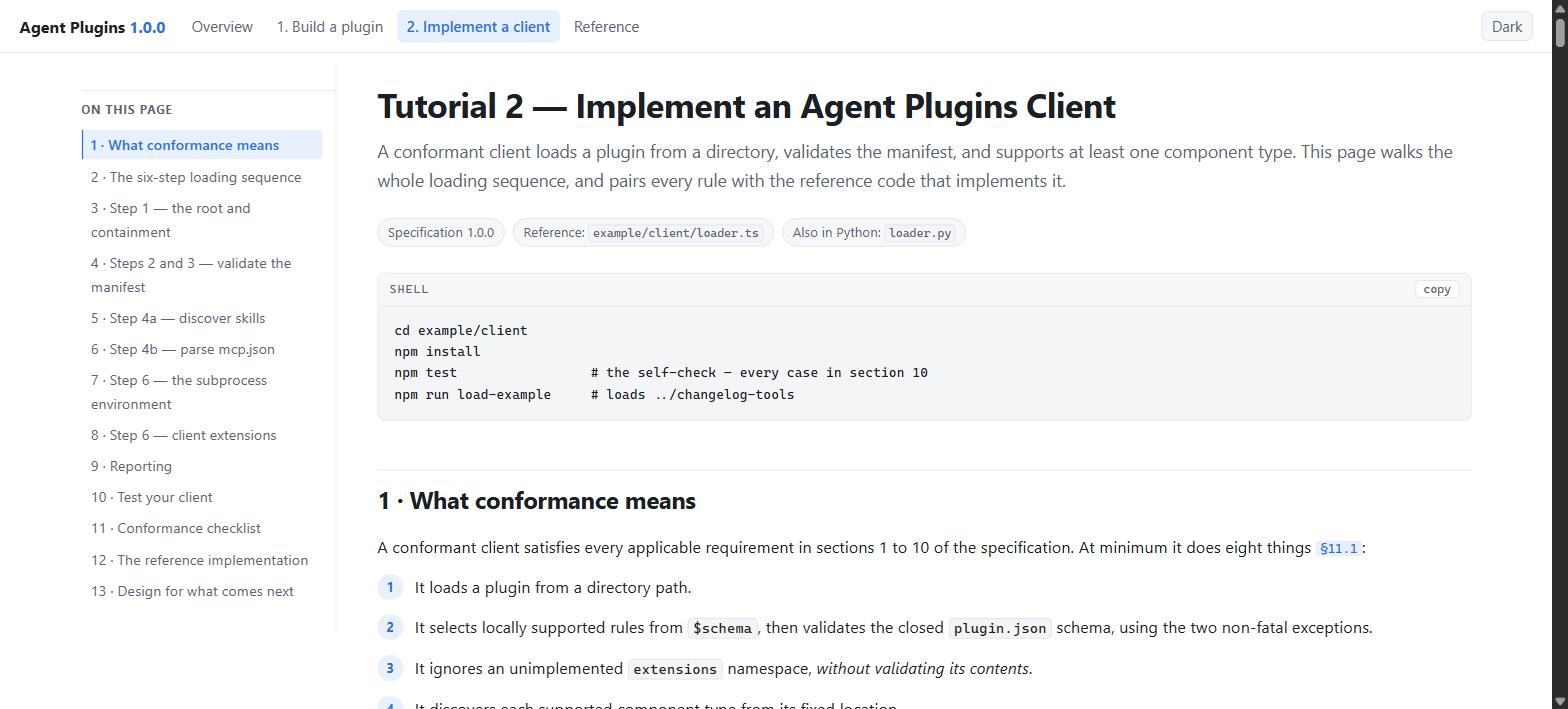
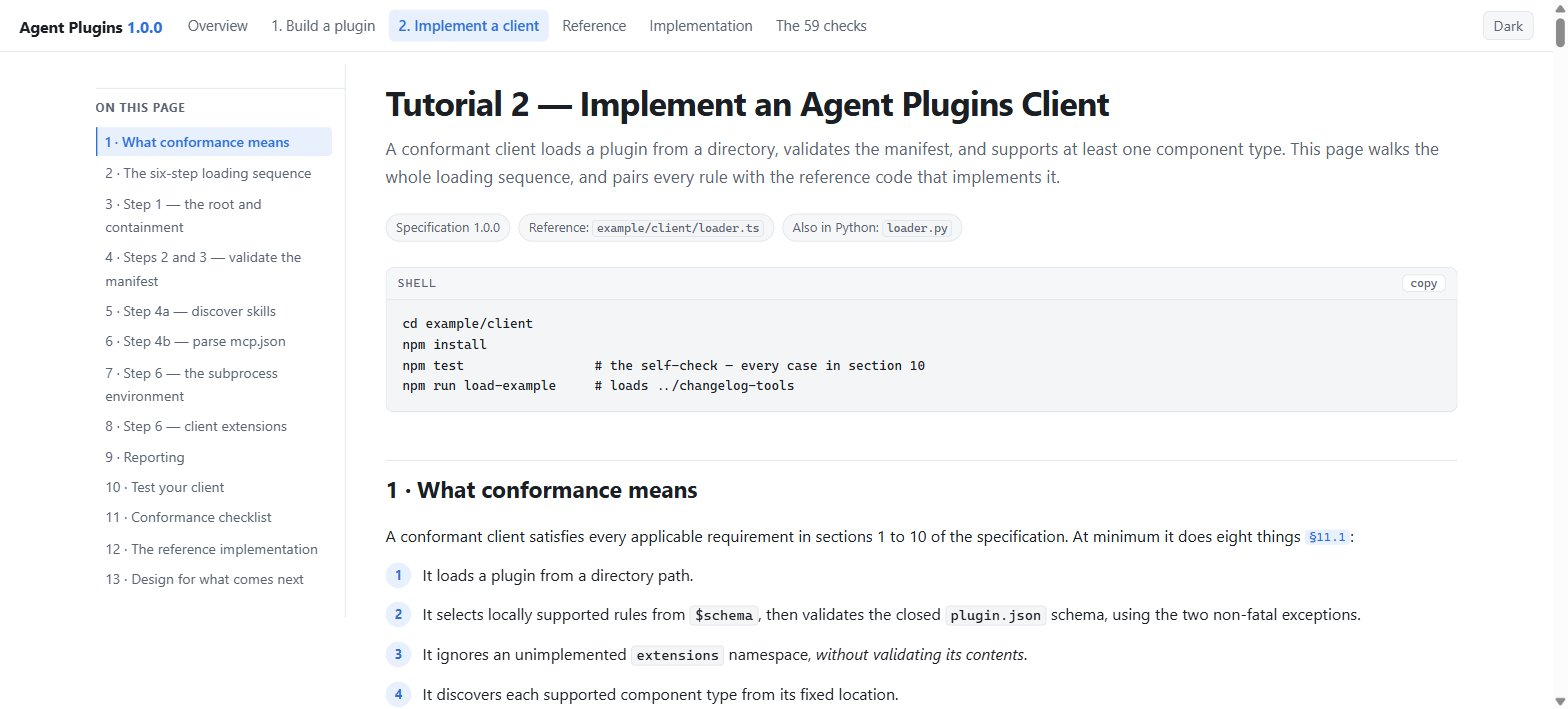
Show all 6 pages as live clickable screenshots in the README
The README linked implementation.html and e2e-tests.html as relative paths,
which open the raw HTML source on github.com instead of the rendered page.
Both now point at the live GitHub Pages URLs, and both appear in the
screenshot grid, which grows from 2x2 to 3x2.

Re-shoot all 6 screenshots. The original 4 showed a 4-item nav and went
stale when 87d36f2 added 2 pages to every nav.

Document the plugin, both reference clients, and their tests: a component
table, a client table, the 7-server outcome table the self-checks assert,
and the 59-check split.

Claude-Session: https://claude.ai/code/session_01WjJBM6mLEygkr3QV7NpvkF

diff --git a/README.md b/README.md
@@ -28,6 +28,11 @@ Click any screenshot to open that page.
 | **[Overview](https://az9713.github.io/agent-plugins-spec-tutorial/)** — what the standard is, the smallest valid plugin, how to run the examples. | **[1 · Build a plugin](https://az9713.github.io/agent-plugins-spec-tutorial/plugin-authors.html)** — every `plugin.json` and `mcp.json` key, inside commented JSON. Ten mistakes that break a plugin. |
 | [![Implement a client](assets/screenshots/client-implementers.jpg)](https://az9713.github.io/agent-plugins-spec-tutorial/client-implementers.html) | [![Reference](assets/screenshots/reference.jpg)](https://az9713.github.io/agent-plugins-spec-tutorial/reference.html) |
 | **[2 · Implement a client](https://az9713.github.io/agent-plugins-spec-tutorial/client-implementers.html)** — the six-step loading sequence, the failure-boundary ladder, the expansion algorithm, the conformance checklist. | **[Reference](https://az9713.github.io/agent-plugins-spec-tutorial/reference.html)** — field tables, the complete failure matrix, both schemas, the glossary. |
+| [![The implementations](assets/screenshots/implementation.jpg)](https://az9713.github.io/agent-plugins-spec-tutorial/implementation.html) | [![The 59 checks](assets/screenshots/e2e-tests.jpg)](https://az9713.github.io/agent-plugins-spec-tutorial/e2e-tests.html) |
+| **[The implementations](https://az9713.github.io/agent-plugins-spec-tutorial/implementation.html)** — what the example plugin and both reference clients actually contain, and a measured verdict on how faithful the tutorial code is to the shipping files. | **[The 59 checks](https://az9713.github.io/agent-plugins-spec-tutorial/e2e-tests.html)** — every check in `example/e2e.py` explained, what is deliberately untested, and what 59 passes do and do not prove. |
+
+The first four pages teach the specification. The last two document this repository's own code and
+its tests, so the tutorial can be checked rather than trusted.
 
 The pages are self-contained: no CDN, no external font, no network request. They follow the
 reader's light or dark theme, and carry a manual toggle. The screenshots show the light theme.
@@ -48,12 +53,33 @@ changelog-tools/
 └── com.example.client/hooks/         # a client extension directory   (§8.2)
 ```
 
+Nothing here is a stub. Every file runs:
+
+| File | Lines | What it is |
+| --- | --- | --- |
+| `plugin.json` | 20 | All 10 manifest keys and nothing else: `$schema`, `name`, `version`, `description`, `author`, `homepage`, `repository`, `license`, `keywords`, `extensions` (§5). |
+| `mcp.json` | 26 | Three servers, one per transport: `notes` on `stdio`, `release-api` on `streamable-http`, `legacy-feed` on the deprecated `sse` (§7.2). |
+| `bin/notes_server.py` | 106 | A real MCP stdio server. Speaks `initialize`, `tools/list`, `tools/call`. |
+| `skills/changelog-entry/SKILL.md` | 22 | The skill: frontmatter plus a procedure (§7.1). |
+| `skills/.../references/format.md` | 12 | Support material the skill tells the agent to read. |
+| `skills/.../scripts/check_entry.py` | 40 | Validates a changelog entry: exit 0 when the version heading and the section order are right, exit 1 otherwise. Run it with no argument for its own self-check. |
+| `com.example.client/hooks/hooks.json` | — | A client extension directory. A client that does not own the reverse-DNS key must ignore it (§8.2). |
+
 The bundled MCP server stores release notes under `${PLUGIN_DATA}`, which demonstrates why that
 directory — and not `${PLUGIN_ROOT}` — holds anything that must survive a plugin update.
 
 ## The reference clients
 
-Two implementations, same behavior, standard library only.
+Two implementations, same behavior, standard library only. No framework, no runtime dependency.
+
+| Implementation | Lines | Requires |
+| --- | --- | --- |
+| `example/client/loader.ts` | 484 | Node and TypeScript, compiled under `strict` |
+| `example/client/loader.py` | 357 | Python 3 alone |
+
+Each performs the full six-step load: read and validate `plugin.json`, discover skills, read
+`mcp.json`, expand `${PLUGIN_ROOT}` and `${PLUGIN_DATA}`, reject any path that escapes its root,
+and skip a server whose transport it does not support.
 
 ```bash
 # TypeScript
@@ -63,13 +89,46 @@ npm test              # the self-check
 npm run load-example  # loads ../changelog-tools and prints the launch plan
 
 # Python — no dependency
-python loader.py
+python loader.py             # the self-check
 python loader.py ../changelog-tools
 ```
 
-Both apply the specification's failure boundaries: a fault in one component never removes an
-independent component. The self-check covers the rejection cases, the continue-loading cases, and the
-single-pass expansion rule.
+### Their tests
+
+Each loader carries its own self-check in the same file, so neither needs a test framework. Run it
+with `npm test` or `python loader.py`. A pass prints one line:
+
+```
+loader self-check passed
+```
+
+Each self-check builds a throwaway plugin in a temporary directory, deliberately fills it with bad
+components, and asserts that the good ones still load. The manifest carries an unknown field, which
+must be dropped and reported. Of three skill directories, only one is valid: a directory holding a
+`README.md` and no `SKILL.md` is not a skill, and a `SKILL.md` nested one level deeper is not
+discovered, because the search is not recursive.
+
+The `mcp.json` defines seven servers and exactly two must survive:
+
+| Server | Transport | Outcome |
+| --- | --- | --- |
+| `ok` | `stdio` | Loads. Its `${PLUGIN_ROOT}` and `${PLUGIN_DATA}` expand in `args`, `env`, and `cwd`. |
+| `local_http` | `streamable-http` | Loads — plaintext HTTP is allowed to `localhost`. |
+| `escape` | `stdio` | Rejected. The command `../evil` is neither a bare name nor a `./` path. |
+| `reserved` | `stdio` | Rejected. It tries to set the reserved variable `PLUGIN_ROOT` (§9.2). |
+| `plain_http` | `streamable-http` | Rejected. Plaintext HTTP is allowed to a loopback host only. |
+| `legacy` | `sse` | Skipped with a report line. Supporting `sse` is OPTIONAL (§7.2.1). |
+| `bogus` | `websocket` | Rejected. Not a transport the specification defines. |
+
+Expansion is asserted to be a **single pass**: `${PLUGIN_ROOT}` expanding to the literal text
+`${PLUGIN_DATA}` leaves that text alone rather than expanding it again, and an unknown variable such
+as `${OTHER}` is left untouched. A malformed `extensions` value is discarded with a report while the
+plugin keeps loading.
+
+Five of the seven servers are bad, two skill directories are not skills, the manifest has a junk
+field — and the plugin still comes up with its one real skill and two real servers. That is the whole
+point of the specification's failure boundaries: a fault in one component never removes an
+independent component.
 
 Expected report line when loading the example:
 
@@ -82,12 +141,19 @@ client skips that one entry and still loads the skill and the two other servers.
 
 ## The end-to-end demonstration
 
-`example/e2e.py` runs the whole tutorial and proves it works. Python only; it skips the TypeScript
-comparison when Node is absent.
+`example/e2e.py` is 537 lines that run the whole tutorial and prove it works. Python only; the
+TypeScript comparison prints `[SKIP]` instead of failing when Node is absent.
 
 ```bash
 python example/e2e.py           # prints the MCP transcript
 python example/e2e.py --quiet   # prints the results only
+```
+
+It reports **59 checks in two parts — 29 in Part A and 30 in Part B** — and takes about five
+seconds. The last line is the verdict:
+
+```
+=== 59 passed, 0 failed in 5.5s ===
 ```
 
 Part A loads the plugin with the reference client, launches the bundled MCP server from the client's
@@ -102,12 +168,22 @@ Part B compares the code on the four HTML pages with the files in `example/`: th
 both loaders compile, the directory tree must name every file that exists, and the sample loader
 output must be the output the loader prints.
 
-Two pages document it: [the implementations](implementation.html) explains the plugin, both clients,
-and how faithful the tutorial code is to the shipping files; [the 59 checks](e2e-tests.html) explains
-every check, what is deliberately untested, and what the passes do and do not prove.
+Part B scans the four tutorial pages only. `implementation.html` and `e2e-tests.html` are outside it
+on purpose, because adding them would change the count that `e2e-tests.html` documents.
 
-Exit code 0 means every check passed. A broken file makes the related checks fail: change
-`${PLUGIN_DATA}` to `${PLUGIN_ROOT}` in `mcp.json` and four checks turn red.
+Exit code 0 means every check passed. The suite is only worth trusting if it can fail, so that was
+tested too: change `${PLUGIN_DATA}` to `${PLUGIN_ROOT}` in `mcp.json` and four checks turn red and
+the exit code becomes 1.
+
+Two pages document all of this, and both are live:
+
+- **[The implementations](https://az9713.github.io/agent-plugins-spec-tutorial/implementation.html)**
+  — what the plugin and both clients contain, and a measured verdict on tutorial-versus-code
+  fidelity: 149 of 165 TypeScript lines shown in the tutorial are verbatim, and every block that
+  claims to be a file is identical to that file.
+- **[The 59 checks](https://az9713.github.io/agent-plugins-spec-tutorial/e2e-tests.html)** — every
+  check named and explained, then the part most test documentation skips: what is **not** tested and
+  why, and what 59 green results do and do not entitle you to believe.
 
 
 ## Verify the example plugin end to end

diff --git a/HANDOFF.md b/HANDOFF.md
@@ -6,10 +6,12 @@
 Repo: https://github.com/az9713/agent-plugins-spec-tutorial (public)
 Site: https://az9713.github.io/agent-plugins-spec-tutorial/ (**live**)
 
-## Current state (as of 2026-08-06, content commit `05f25e7`)
+## Current state (as of 2026-08-07)
 
-Everything is committed and pushed to `main`. Local `HEAD` matches `origin/main`, and the deployed
-commit matches both. The working tree is clean. Nothing is in flight.
+The invariant to restore after any change: local `HEAD` = `origin/main` = the newest deployment sha,
+and a clean working tree. Do not trust this file's word for it — run the two checks at the end of
+the next section. `HEAD` was last confirmed equal to the deployed commit at `6d899ba`, delivered by
+run 31134457291.
 
 Done and verified:
 
@@ -30,17 +32,31 @@ Done and verified:
   `example/client/loader.ts` (484 lines, strict TS) and `example/client/loader.py` (357 lines).
   Both self-checks pass. Both produce the same launch plan for the example, including the report
   line `server legacy-feed skipped: transport sse is unsupported`.
-- **4 light-theme screenshots** in `assets/screenshots/`, wired into `README.md` as a clickable
-  2x2 grid. The images serve correctly (HTTP 200 from `raw.githubusercontent.com`). Landed in `b9ccf92`.
+- **6 light-theme screenshots** in `assets/screenshots/`, one per page, wired into `README.md` as a
+  clickable 3x2 grid. All 6 are 1568x709 JPEG. The original 4 landed in `b9ccf92` but went stale when
+  `87d36f2` added 2 pages to every nav, so all 6 were re-shot together against the live site.
+  Recipe, if they need shooting again: chrome-devtools `new_page` with an isolated context,
+  `emulate` `colorScheme: light` and viewport `1568x709x1`, **then reload** — the theme toggle paints
+  its label once at load (`assets/tutorial.js:17`), so a page loaded before the emulation shows
+  "Light" on a light page. Confirm with `evaluate_script` that the label reads `Dark` and
+  `prefersDark` is `false` before capturing. `take_screenshot` writes `.jpeg`; rename to `.jpg`.
+- **Every link in `README.md` is absolute.** Relative links such as `](implementation.html)` open the
+  raw HTML source on github.com instead of the page. Only the 6 screenshot images stay repo-relative,
+  which is required for them to render.
 
-- **The site is deployed and live.** Run 31129025363 (`Deploy tutorial to GitHub Pages`) finished
-  `success` at about 22:30 UTC on 2026-08-06, after the earlier GitHub Actions outage recovered.
-  The three failed runs and the stuck `waiting` run 31126763438 were the outage, not this repo;
-  31126763438 was cancelled to free the `pages` concurrency group before the new dispatch.
-- **All 12 live URLs return HTTP 200**: the 6 pages, the 4 screenshot JPEGs, `assets/style.css`,
-  and `assets/tutorial.js`. Every destination behind the README screenshot grid is one of those
-  4 verified page URLs. The served `index.html` is 11887 bytes and names `e2e.py` twice, which is
-  how you confirm the newest content is live and not a cached older deploy.
+- **The site is deployed and live.** The newest run is 31134457291 (`workflow_dispatch`), which
+  finished `success` at 00:23 UTC on 2026-08-07 for commit `6d899ba`. Earlier failed runs and the
+  stuck `waiting` run 31126763438 were the GitHub Actions outage, not this repo.
+- **The live URL check covers 14 things**: the 6 pages, the 6 screenshot JPEGs, `assets/style.css`,
+  and `assets/tutorial.js`. All 14 returned 200 as of the last verified deploy. The 2 newest JPEGs,
+  `implementation.jpg` and `e2e-tests.jpg`, only serve once their commit is pushed and deployed —
+  re-run the loop below after any push. Every destination behind the README screenshot grid is one
+  of the 6 page URLs. The served `index.html` is 11987 bytes, which equals
+  `git cat-file -s HEAD:index.html`, and it links `implementation.html` and `e2e-tests.html`.
+  That byte match is how you confirm the newest content is live and not a cached older deploy.
+  A Windows working copy shows 12234 bytes for the same file, because the checkout uses CRLF
+  and the 247 extra bytes are the 247 carriage returns. Compare the git blob size, not the file
+  on disk.
 - **`example/e2e.py` — the end-to-end demonstration. 59 checks, exit code 0.** Landed in `fe3acce`.
   Run it with `python example/e2e.py` (add `--quiet` to hide the MCP transcript). Part A loads the
   plugin with the reference client, launches `bin/notes_server.py` from the client's own launch
@@ -67,8 +83,8 @@ Possible follow-ups, in the order of value. None is started:
    against the field tables in `reference.html` and the rules in the other 3 pages.
 2. Run `example/e2e.py` in CI. It already exits non-zero on a failure, so a small workflow that
    calls it turns doc drift into a red build. `.github/workflows/pages.yml` deploys but does not test.
-3. Add dark-theme screenshots. `assets/screenshots/` holds light-theme images only. There is also
-   no screenshot for the 2 new pages.
+3. Add dark-theme screenshots. `assets/screenshots/` holds light-theme images only. All 6 pages now
+   have one, so only the dark variant is missing.
 
 Re-deploy at any time with `gh workflow run pages.yml -R az9713/agent-plugins-spec-tutorial`.
 After a deploy, run these two checks in order. The second one is the important one.
@@ -78,12 +94,13 @@ After a deploy, run these two checks in order. The second one is the important o
 echo "HEAD=$(git rev-parse --short HEAD) deployed=$(gh api \
   repos/az9713/agent-plugins-spec-tutorial/deployments --jq '.[0].sha[0:7]')"
 
-# 2. All 12 URLs must return 200.
+# 2. All 14 URLs must return 200.
 B=https://az9713.github.io/agent-plugins-spec-tutorial
 for u in "" plugin-authors.html client-implementers.html reference.html \
          implementation.html e2e-tests.html \
          assets/screenshots/index.jpg assets/screenshots/plugin-authors.jpg \
          assets/screenshots/client-implementers.jpg assets/screenshots/reference.jpg \
+         assets/screenshots/implementation.jpg assets/screenshots/e2e-tests.jpg \
          assets/style.css assets/tutorial.js; do
   curl -sL -o /dev/null -w "$u %{http_code}\n" "$B/$u"
 done
